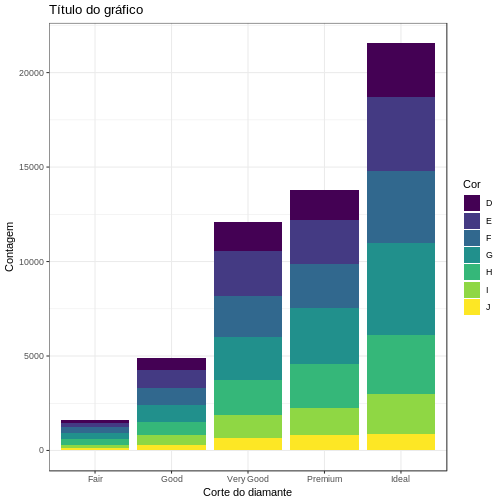
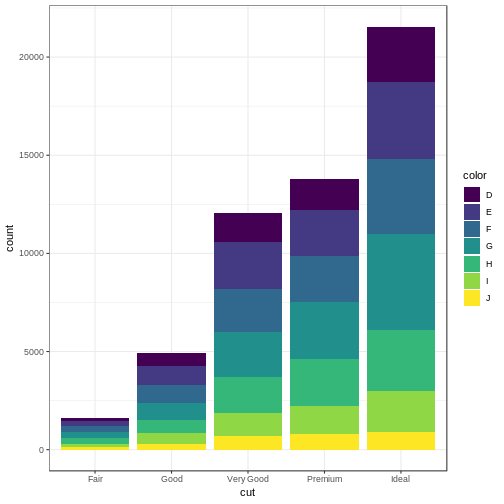
knit na apresentacao

diff --git a/docs/index.html b/docs/index.html
@@ -192,8 +192,8 @@ library(ggplot2)
 DT::datatable(head(diamonds), fillContainer = FALSE)
 ```
 
-<div id="htmlwidget-1982820b60c1583f8bd5" style="width:100%;height:auto;" class="datatables html-widget"></div>
-<script type="application/json" data-for="htmlwidget-1982820b60c1583f8bd5">{"x":{"filter":"none","fillContainer":false,"data":[["1","2","3","4","5","6"],[0.23,0.21,0.23,0.29,0.31,0.24],["Ideal","Premium","Good","Premium","Good","Very Good"],["E","E","E","I","J","J"],["SI2","SI1","VS1","VS2","SI2","VVS2"],[61.5,59.8,56.9,62.4,63.3,62.8],[55,61,65,58,58,57],[326,326,327,334,335,336],[3.95,3.89,4.05,4.2,4.34,3.94],[3.98,3.84,4.07,4.23,4.35,3.96],[2.43,2.31,2.31,2.63,2.75,2.48]],"container":"<table class=\"display\">\n  <thead>\n    <tr>\n      <th> <\/th>\n      <th>carat<\/th>\n      <th>cut<\/th>\n      <th>color<\/th>\n      <th>clarity<\/th>\n      <th>depth<\/th>\n      <th>table<\/th>\n      <th>price<\/th>\n      <th>x<\/th>\n      <th>y<\/th>\n      <th>z<\/th>\n    <\/tr>\n  <\/thead>\n<\/table>","options":{"columnDefs":[{"className":"dt-right","targets":[1,5,6,7,8,9,10]},{"orderable":false,"targets":0}],"order":[],"autoWidth":false,"orderClasses":false}},"evals":[],"jsHooks":[]}</script>
+<div id="htmlwidget-924997066e5f54aa2226" style="width:100%;height:auto;" class="datatables html-widget"></div>
+<script type="application/json" data-for="htmlwidget-924997066e5f54aa2226">{"x":{"filter":"none","fillContainer":false,"data":[["1","2","3","4","5","6"],[0.23,0.21,0.23,0.29,0.31,0.24],["Ideal","Premium","Good","Premium","Good","Very Good"],["E","E","E","I","J","J"],["SI2","SI1","VS1","VS2","SI2","VVS2"],[61.5,59.8,56.9,62.4,63.3,62.8],[55,61,65,58,58,57],[326,326,327,334,335,336],[3.95,3.89,4.05,4.2,4.34,3.94],[3.98,3.84,4.07,4.23,4.35,3.96],[2.43,2.31,2.31,2.63,2.75,2.48]],"container":"<table class=\"display\">\n  <thead>\n    <tr>\n      <th> <\/th>\n      <th>carat<\/th>\n      <th>cut<\/th>\n      <th>color<\/th>\n      <th>clarity<\/th>\n      <th>depth<\/th>\n      <th>table<\/th>\n      <th>price<\/th>\n      <th>x<\/th>\n      <th>y<\/th>\n      <th>z<\/th>\n    <\/tr>\n  <\/thead>\n<\/table>","options":{"columnDefs":[{"className":"dt-right","targets":[1,5,6,7,8,9,10]},{"orderable":false,"targets":0}],"order":[],"autoWidth":false,"orderClasses":false}},"evals":[],"jsHooks":[]}</script>
 
 ```r
 diamonds &lt;- ggplot2::diamonds
@@ -215,76 +215,123 @@ diamonds &lt;- ggplot2::diamonds
 
 
 ---
-# ggplot2 
+### O que &lt;e9&gt; o ggplot2?
 
-- É um pacote usado para visualização de dados.
+- &lt;c9&gt; um pacote usado para visualiza&lt;e7&gt;&lt;e3&gt;o de dados.
 
-- É uma implementação da Grammar of Graphics de Leland Wilkinson - um esquema geral para visualização de dados que divide gráficos em componentes semânticos como escalas e camadas.
+- &lt;c9&gt; uma implementa&lt;e7&gt;&lt;e3&gt;o do Grammar of Graphics de Leland Wilkinson -  um sistema coerente para descrever e construir gr&lt;e1&gt;ficos. Ou seja, ele foi desenvolvido pautado em v&lt;e1&gt;rios conceitos estat&lt;ed&gt;sticos importantes.
 
-- [Cheatsheet em português](https://www.rstudio.com/wp-content/uploads/2016/03/ggplot2-cheatsheet-portuguese.pdf)
+- [Cheatsheet em portugu&lt;ea&gt;s](https://www.rstudio.com/wp-content/uploads/2016/03/ggplot2-cheatsheet-portuguese.pdf)
 
-- Material interessante: [Code Your Graph - A Workshop on Visualizing Your Data with ggplotby Alison Presmanes Hill &amp; Julianne Myers](https://alison.rbind.io/html/jamboree_heart_ggplot.html)
+- **Materiais interessantes:**
+
+  *[Workshop Code Your Graph](https://alison.rbind.io/html/jamboree_heart_ggplot.html)
+
+  *[R for Data Science - cap&lt;ed&gt;tulos 3 e 28](https://r4ds.had.co.nz/data-visualisation.html)
 
 &lt;img src="img/ggplot2.png" width="241" style="display: block; margin: auto;" /&gt;
-
 ---
+# O que &lt;e9&gt; o grammar of graphics?
+  
+  - A ideia b&lt;e1&gt;sica &lt;e9&gt; que de forma independente podemos 
+especificar  e combinar blocos de constru&lt;e7&gt;&lt;e3&gt;o de um gr&lt;e1&gt;fico para criar praticamente 
+qualquer tipo de exibi&lt;e7&gt;&lt;e3&gt;o gr&lt;e1&gt;fica desejada. 
 
-** Exemplos passo a passo: Exemplo 1 - geom_bar **
+- Os blocos de constru&lt;e7&gt;&lt;e3&gt;o (ou camadas)  de um gr&lt;e1&gt;fico incluem:
+
+  - data
+  - aesthetic mapping
+  - geometric object
+  - statistical transformations
+  - scales
+  - coordinate system
+  - position adjustments
+  - faceting
+  
+---
+** Exemplo passo a passo - geom_histogram() **
+
+A fun&lt;e7&gt;&lt;e3&gt;o ggplot() recebe um data frame e cria o bloco base do gr&lt;e1&gt;fico. Se rodarmos somente ela, teremos um painel em branco:
 
 ```r
-diamonds %&gt;% ggplot()
+DT::datatable(head(diamonds), fillContainer = FALSE)
 ```
 
-&lt;img src="index_files/figure-html/unnamed-chunk-10-1.png" style="display: block; margin: auto;" /&gt;
----
-** Exemplos passo a passo: Exemplo 1 - geom_bar **
+<div id="htmlwidget-a272397d113a17db1f95" style="width:100%;height:auto;" class="datatables html-widget"></div>
+<script type="application/json" data-for="htmlwidget-a272397d113a17db1f95">{"x":{"filter":"none","fillContainer":false,"data":[["1","2","3","4","5","6"],[0.23,0.21,0.23,0.29,0.31,0.24],["Ideal","Premium","Good","Premium","Good","Very Good"],["E","E","E","I","J","J"],["SI2","SI1","VS1","VS2","SI2","VVS2"],[61.5,59.8,56.9,62.4,63.3,62.8],[55,61,65,58,58,57],[326,326,327,334,335,336],[3.95,3.89,4.05,4.2,4.34,3.94],[3.98,3.84,4.07,4.23,4.35,3.96],[2.43,2.31,2.31,2.63,2.75,2.48]],"container":"<table class=\"display\">\n  <thead>\n    <tr>\n      <th> <\/th>\n      <th>carat<\/th>\n      <th>cut<\/th>\n      <th>color<\/th>\n      <th>clarity<\/th>\n      <th>depth<\/th>\n      <th>table<\/th>\n      <th>price<\/th>\n      <th>x<\/th>\n      <th>y<\/th>\n      <th>z<\/th>\n    <\/tr>\n  <\/thead>\n<\/table>","options":{"columnDefs":[{"className":"dt-right","targets":[1,5,6,7,8,9,10]},{"orderable":false,"targets":0}],"order":[],"autoWidth":false,"orderClasses":false}},"evals":[],"jsHooks":[]}</script>
 
 ```r
-diamonds %&gt;%  ggplot(aes(x=cut))
+diamonds &lt;- ggplot2::diamonds
+#ggplot(data = diamonds)
+diamonds %&gt;% ggplot() #usando o pipe
+```
+
+&lt;img src="index_files/figure-html/unnamed-chunk-10-2.png" style="display: block; margin: auto;" /&gt;
+---
+** Exemplo passo a passo - geom_histogram() **
+
+Por&lt;e9&gt;m para construirmos o gr&lt;e1&gt;fico precisamos dizer como as observa&lt;e7&gt;&lt;f5&gt;es ser&lt;e3&gt;o mapeadas nos aspectos visuais do gr&lt;e1&gt;fico e quais formas geom&lt;e9&gt;tricas ser&lt;e3&gt;o utilizadas para isso. #reescrever esse trecho
+
+```r
+diamonds %&gt;% ggplot() +
+  geom_histogram(mapping = aes(x = depth))
+```
+
+```
+## `stat_bin()` using `bins = 30`. Pick better value with `binwidth`.
 ```
 
 &lt;img src="index_files/figure-html/unnamed-chunk-11-1.png" style="display: block; margin: auto;" /&gt;
+
+
 ---
-** Exemplos passo a passo: Exemplo 1 - geom_bar **
+** Desafio 1 **
+Plotar a distribui&lt;e7&gt;&lt;e3&gt;o de frequ&lt;ea&gt;ncias da vari&lt;e1&gt;vel price
 
 ```r
-diamonds %&gt;% ggplot(aes(x=cut))+
-geom_bar()
+diamonds %&gt;% ggplot() +
+  geom_histogram(mapping = aes(x = price))
+```
+
+```
+## `stat_bin()` using `bins = 30`. Pick better value with `binwidth`.
 ```
 
 &lt;img src="index_files/figure-html/unnamed-chunk-12-1.png" style="display: block; margin: auto;" /&gt;
+
 ---
-** Exemplo 1 - geom_bar **
+** Exemplo passo a passo 2: geom_bar **
+
+Para vari&lt;e1&gt;veis categ&lt;f3&gt;ricas, ou seja, aquelas que representam uma categoria como qualidade (bom, ruim), sexo(M, F) ou no nosso caso, a qualidade do corte da pedra, podemos usar um gr&lt;e1&gt;fico de barras
 
 ```r
-diamonds %&gt;% ggplot(aes(x=cut, fill=color))+
-geom_bar()
+diamonds %&gt;% ggplot() +
+  geom_bar(aes(x=cut))
 ```
 
 &lt;img src="index_files/figure-html/unnamed-chunk-13-1.png" style="display: block; margin: auto;" /&gt;
-
 ---
-** Exemplo 1 - geom_bar **
+** Exemplo passo a passo 2: geom_bar **
 
 ```r
-diamonds %&gt;% ggplot(aes(x=cut, fill=color))+
-geom_bar()+theme_bw()
+diamonds %&gt;% ggplot()+
+  geom_bar(aes(x=cut, fill=color))
 ```
 
 &lt;img src="index_files/figure-html/unnamed-chunk-14-1.png" style="display: block; margin: auto;" /&gt;
----
 
+---
+** Exemplo passo a passo 2: geom_bar **
 
 ```r
-diamonds %&gt;%  ggplot(aes(x=cut, fill=color)) +
-  geom_bar() + theme_bw() +
-  labs(title = "Título do gráfico", x = "Corte do diamante", 
-    y = "Contagem", fill = "Cor") 
+diamonds %&gt;% ggplot() + 
+  geom_bar(aes(x=cut, fill=color)) + theme_bw()
 ```
 
 &lt;img src="index_files/figure-html/unnamed-chunk-15-1.png" style="display: block; margin: auto;" /&gt;
----
 
+---
+** Exemplo passo a passo 2: geom_bar **
 
 ```r
 diamonds %&gt;%  ggplot(aes(x=cut, fill=color)) +
@@ -647,8 +694,8 @@ DT::datatable(head(mtcars, 10),
   fillContainer = FALSE, options = list(pageLength = 5))
 ```
 
-<div id="htmlwidget-78f668e238fe5120b6b9" style="width:100%;height:auto;" class="datatables html-widget"></div>
-<script type="application/json" data-for="htmlwidget-78f668e238fe5120b6b9">{"x":{"filter":"none","fillContainer":false,"data":[["Mazda RX4","Mazda RX4 Wag","Datsun 710","Hornet 4 Drive","Hornet Sportabout","Valiant","Duster 360","Merc 240D","Merc 230","Merc 280"],[21,21,22.8,21.4,18.7,18.1,14.3,24.4,22.8,19.2],[6,6,4,6,8,6,8,4,4,6],[160,160,108,258,360,225,360,146.7,140.8,167.6],[110,110,93,110,175,105,245,62,95,123],[3.9,3.9,3.85,3.08,3.15,2.76,3.21,3.69,3.92,3.92],[2.62,2.875,2.32,3.215,3.44,3.46,3.57,3.19,3.15,3.44],[16.46,17.02,18.61,19.44,17.02,20.22,15.84,20,22.9,18.3],[0,0,1,1,0,1,0,1,1,1],[1,1,1,0,0,0,0,0,0,0],[4,4,4,3,3,3,3,4,4,4],[4,4,1,1,2,1,4,2,2,4]],"container":"<table class=\"display\">\n  <thead>\n    <tr>\n      <th> <\/th>\n      <th>mpg<\/th>\n      <th>cyl<\/th>\n      <th>disp<\/th>\n      <th>hp<\/th>\n      <th>drat<\/th>\n      <th>wt<\/th>\n      <th>qsec<\/th>\n      <th>vs<\/th>\n      <th>am<\/th>\n      <th>gear<\/th>\n      <th>carb<\/th>\n    <\/tr>\n  <\/thead>\n<\/table>","options":{"pageLength":5,"columnDefs":[{"className":"dt-right","targets":[1,2,3,4,5,6,7,8,9,10,11]},{"orderable":false,"targets":0}],"order":[],"autoWidth":false,"orderClasses":false,"lengthMenu":[5,10,25,50,100]}},"evals":[],"jsHooks":[]}</script>
+<div id="htmlwidget-8341bcba9ccc6c83f616" style="width:100%;height:auto;" class="datatables html-widget"></div>
+<script type="application/json" data-for="htmlwidget-8341bcba9ccc6c83f616">{"x":{"filter":"none","fillContainer":false,"data":[["Mazda RX4","Mazda RX4 Wag","Datsun 710","Hornet 4 Drive","Hornet Sportabout","Valiant","Duster 360","Merc 240D","Merc 230","Merc 280"],[21,21,22.8,21.4,18.7,18.1,14.3,24.4,22.8,19.2],[6,6,4,6,8,6,8,4,4,6],[160,160,108,258,360,225,360,146.7,140.8,167.6],[110,110,93,110,175,105,245,62,95,123],[3.9,3.9,3.85,3.08,3.15,2.76,3.21,3.69,3.92,3.92],[2.62,2.875,2.32,3.215,3.44,3.46,3.57,3.19,3.15,3.44],[16.46,17.02,18.61,19.44,17.02,20.22,15.84,20,22.9,18.3],[0,0,1,1,0,1,0,1,1,1],[1,1,1,0,0,0,0,0,0,0],[4,4,4,3,3,3,3,4,4,4],[4,4,1,1,2,1,4,2,2,4]],"container":"<table class=\"display\">\n  <thead>\n    <tr>\n      <th> <\/th>\n      <th>mpg<\/th>\n      <th>cyl<\/th>\n      <th>disp<\/th>\n      <th>hp<\/th>\n      <th>drat<\/th>\n      <th>wt<\/th>\n      <th>qsec<\/th>\n      <th>vs<\/th>\n      <th>am<\/th>\n      <th>gear<\/th>\n      <th>carb<\/th>\n    <\/tr>\n  <\/thead>\n<\/table>","options":{"pageLength":5,"columnDefs":[{"className":"dt-right","targets":[1,2,3,4,5,6,7,8,9,10,11]},{"orderable":false,"targets":0}],"order":[],"autoWidth":false,"orderClasses":false,"lengthMenu":[5,10,25,50,100]}},"evals":[],"jsHooks":[]}</script>
 ---
 class: middle
 # Adding images using Knitr
